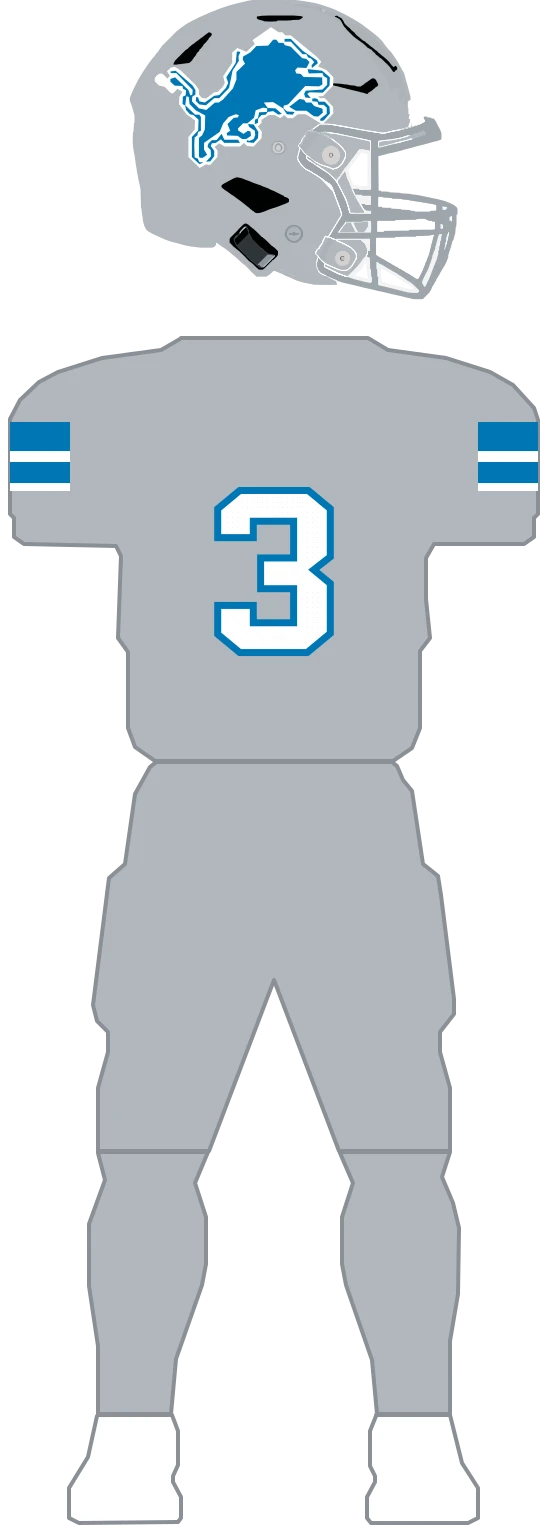
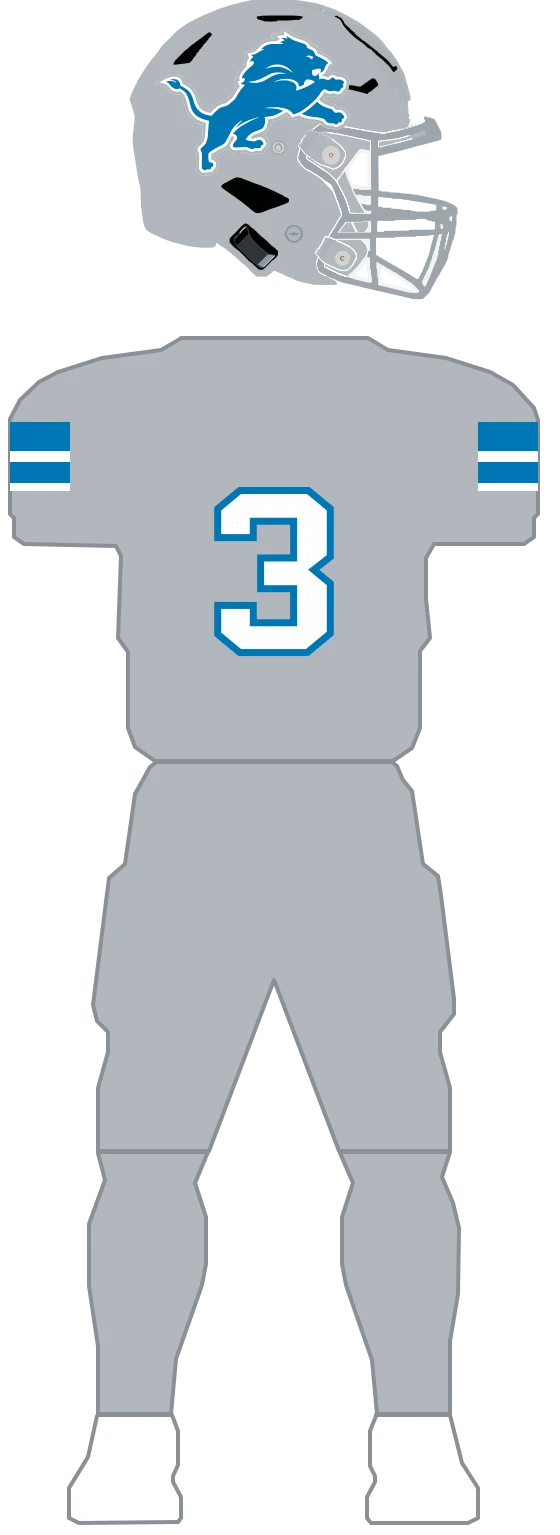
design(uniforms): refine Lions helmet decals (#803)
* design(uniforms): refine Lions helmet decals

* fix(uniforms): preserve all Lions decal paths

* style(uniforms): format Lions parts

Changed region(s): [[0.2732, 0.0, 0.6375, 0.1225]]

diff --git a/web/lib/uniforms/teams/lions-decal.ts b/web/lib/uniforms/teams/lions-decal.ts
@@ -1,0 +1,83 @@
+// Provenance: user-supplied lions_leaping_lion.svg (DEP-475), club trademark/non-free art.
+// Source SHA-256: 43e78fef4fc99e3a3a5d1d278ab5ed742794af621c85ef39081951fb80fe59be
+// Direct source paths in original paint order; canvas and border paths are omitted.
+// Placement reference: https://www.gridiron-uniforms.com/GUD/controller/controller.php?action=teams&team_id=DET
+// Generated by scripts/uniform-draw/lions_decal.py; coordinates include placement.
+export const LIONS_DECAL_PATHS = [
+  {
+    fill: 'blue',
+    d: 'M452.362,139.625 L453.621,140.128 L456.139,142.142 L460.922,145.164 L466.713,148.185 L472.001,150.199 L487.107,155.235 L491.136,157.249 L492.647,159.263 L493.402,160.774 L493.402,163.544 L502.466,167.572 L505.236,169.083 L506.998,170.845 L510.271,177.392 L512.034,179.406 L520.342,183.183 L525.378,185.700 L530.162,188.722 L533.687,191.491 L536.456,193.757 L536.456,194.261 L533.687,196.023 L531.672,198.038 L529.658,203.073 L528.399,206.094 L526.637,208.864 L524.371,211.382 L521.853,213.144 L520.846,213.648 L520.091,213.648 L521.098,209.368 L520.846,206.598 L520.342,205.591 L515.810,205.591 L510.775,206.346 L506.746,207.605 L503.725,209.116 L503.473,209.871 L503.473,212.137 L503.977,215.662 L504.984,217.928 L505.991,219.187 L507.502,219.942 L509.768,219.942 L512.789,218.432 L515.559,215.662 L516.566,214.151 L517.069,214.151 L517.069,219.942 L518.328,220.446 L518.328,223.467 L518.076,226.237 L517.825,226.740 L521.601,225.482 L522.860,225.230 L525.630,225.230 L529.910,226.237 L534.442,227.999 L536.205,227.999 L539.226,226.489 L543.003,223.719 L544.261,223.216 L546.276,223.216 L547.535,223.971 L549.045,225.985 L549.297,226.489 L551.311,226.740 L559.117,226.740 L562.641,227.999 L565.663,229.762 L567.425,231.776 L567.929,233.287 L566.922,234.797 L564.907,236.308 L565.159,237.567 L565.915,239.833 L565.915,242.099 L563.900,243.610 L561.886,244.365 L560.375,247.890 L558.865,249.904 L557.354,251.163 L554.081,251.163 L549.549,249.904 L548.794,249.652 L547.031,249.652 L544.010,250.408 L541.995,250.660 L537.715,250.660 L534.946,249.652 L532.176,247.890 L531.169,246.883 L528.903,246.883 L526.133,247.890 L524.119,249.401 L521.853,252.170 L518.076,257.709 L514.551,262.493 L511.530,266.018 L505.739,271.809 L503.725,273.572 L500.955,276.089 L498.186,278.355 L495.668,280.621 L493.402,282.384 L488.366,286.161 L484.338,288.930 L479.806,291.700 L475.777,293.714 L469.483,295.980 L465.958,296.735 L464.951,295.728 L462.685,292.707 L459.663,289.685 L456.390,287.671 L453.621,286.412 L448.585,284.902 L442.291,283.643 L435.744,282.887 L431.968,282.636 L425.170,282.636 L417.616,283.139 L410.315,284.146 L423.659,284.398 L430.457,285.153 L435.996,286.161 L441.283,287.671 L445.816,289.685 L445.060,290.441 L439.269,293.462 L434.234,296.232 L428.694,298.750 L424.918,300.008 L419.630,301.016 L409.307,302.023 L408.804,302.023 L410.063,307.310 L410.315,310.080 L409.307,315.115 L407.545,320.403 L406.034,323.172 L404.775,324.683 L401.250,326.697 L398.481,327.956 L391.683,330.474 L386.899,332.236 L383.626,333.999 L380.353,336.265 L377.583,338.531 L375.065,341.049 L372.548,344.573 L371.289,347.091 L371.289,347.847 L385.388,350.616 L387.906,350.616 L390.424,349.861 L394.452,348.098 L395.963,347.595 L399.488,347.595 L401.754,348.602 L403.768,350.113 L405.531,352.379 L406.538,354.393 L406.538,356.407 L405.279,357.666 L404.272,358.421 L402.006,359.177 L401.502,359.177 L401.502,361.694 L400.495,363.709 L399.236,364.464 L397.977,364.716 L394.452,364.716 L389.165,363.961 L387.151,365.471 L385.137,366.227 L381.612,366.227 L377.331,363.961 L373.806,362.198 L370.282,361.946 L357.441,362.953 L350.894,363.205 L347.621,362.702 L346.111,361.694 L345.355,360.939 L345.104,360.184 L345.104,357.918 L346.111,355.652 L348.125,352.882 L351.650,348.350 L353.161,345.832 L353.664,344.322 L353.664,342.056 L352.405,339.538 L350.391,337.775 L345.355,335.006 L346.866,333.243 L353.412,326.697 L356.937,323.928 L360.714,321.158 L366.001,317.885 L372.548,314.108 L378.087,311.087 L383.878,308.065 L390.424,305.296 L395.963,303.282 L396.718,303.282 L396.718,302.778 L390.172,304.289 L384.381,306.051 L378.590,308.065 L372.044,310.835 L367.260,313.101 L362.728,315.619 L357.693,318.892 L354.671,321.158 L351.398,323.676 L351.398,322.920 L352.909,320.654 L355.678,317.381 L358.700,314.108 L361.721,311.087 L363.735,309.324 L364.239,308.821 L362.728,309.324 L358.700,311.842 L355.427,314.360 L352.909,316.626 L350.139,319.144 L348.377,321.158 L345.355,324.935 L342.334,329.718 L339.313,335.509 L334.025,346.084 L330.752,351.875 L328.738,354.645 L326.472,356.659 L321.940,359.177 L313.631,363.205 L308.344,366.227 L302.301,370.003 L299.028,372.521 L297.265,374.283 L296.510,376.298 L296.510,383.851 L297.265,391.908 L302.301,392.915 L304.819,393.922 L305.826,395.181 L306.329,396.440 L306.329,399.713 L305.071,401.224 L302.553,401.979 L302.301,402.231 L301.797,404.749 L300.790,406.260 L300.035,407.015 L299.280,407.267 L296.006,407.015 L294.999,406.511 L293.740,406.763 L291.726,408.022 L288.453,408.526 L286.187,407.770 L284.173,406.260 L282.914,403.742 L282.662,400.469 L283.417,382.089 L283.417,375.794 L282.662,372.773 L280.396,367.989 L280.396,365.975 L281.907,363.961 L285.180,360.939 L287.194,359.177 L288.957,357.414 L290.719,354.645 L292.733,350.113 L294.244,344.573 L295.251,337.524 L296.258,319.647 L297.014,313.605 L297.769,310.835 L297.769,309.828 L288.453,307.310 L282.159,305.044 L278.130,303.282 L274.605,301.267 L272.087,299.253 L269.570,296.987 L267.052,294.217 L264.282,290.189 L262.268,286.161 L260.757,281.628 L258.995,273.823 L257.232,267.781 L254.966,261.738 L252.197,255.947 L249.931,252.926 L246.658,249.904 L242.629,247.135 L238.852,244.869 L237.594,245.120 L235.328,246.128 L234.320,246.379 L231.551,246.379 L228.278,245.372 L224.501,243.106 L221.228,240.337 L217.703,235.805 L216.444,234.546 L214.430,233.287 L211.157,232.028 L210.905,231.524 L215.185,230.265 L218.458,229.762 L221.983,229.762 L225.760,230.517 L228.781,231.776 L231.047,233.287 L231.803,233.539 L230.292,231.272 L228.781,230.014 L225.256,228.755 L220.472,227.748 L220.472,227.244 L222.739,226.489 L223.997,226.237 L229.788,226.237 L232.810,226.992 L235.579,228.503 L237.342,230.517 L239.104,234.042 L240.867,239.329 L247.665,243.106 L251.945,245.876 L254.715,247.890 L257.232,250.156 L259.498,252.926 L262.268,257.458 L264.282,261.486 L266.296,267.529 L268.059,273.823 L269.821,278.355 L272.339,283.139 L274.605,286.161 L276.871,288.678 L279.641,291.448 L283.417,293.966 L287.698,295.980 L293.237,297.742 L298.021,298.750 L302.805,299.253 L306.078,295.476 L311.617,289.937 L313.631,288.175 L316.149,285.909 L319.674,283.643 L323.450,282.132 L332.515,279.362 L336.039,277.600 L338.809,275.082 L341.327,273.068 L344.852,270.047 L347.621,267.781 L349.887,265.263 L353.664,258.717 L357.189,252.926 L359.959,248.897 L362.728,245.372 L364.994,242.854 L367.008,240.337 L369.023,238.322 L369.023,237.819 L365.246,237.063 L362.980,236.056 L361.217,234.797 L361.973,234.042 L365.246,232.028 L367.764,229.762 L369.023,227.244 L368.771,224.978 L367.512,224.474 L365.246,224.474 L362.980,224.978 L363.232,223.216 L364.742,219.439 L367.008,215.410 L369.526,212.137 L371.792,209.619 L376.576,204.836 L382.115,200.304 L383.878,198.793 L384.381,198.793 L384.885,197.786 L385.892,196.527 L386.899,194.513 L386.899,191.995 L385.640,190.736 L383.122,190.484 L380.353,191.491 L379.346,192.247 L378.842,191.995 L381.360,186.959 L383.878,183.434 L385.892,181.672 L385.892,181.168 L383.374,179.909 L381.612,178.147 L381.612,177.643 L387.906,176.636 L391.683,175.126 L397.726,171.601 L403.265,168.579 L407.041,167.069 L407.797,166.817 L408.049,166.313 L403.013,166.565 L401.250,166.817 L401.754,165.810 L403.768,164.047 L407.293,161.278 L410.566,159.263 L414.595,157.501 L419.379,156.242 L423.659,155.739 L432.219,155.739 L436.248,155.990 L444.053,155.990 L445.564,155.487 L444.557,154.480 L442.291,153.472 L439.269,152.717 L440.025,151.962 L445.312,149.696 L448.333,148.940 L448.082,148.185 L445.564,146.171 L441.787,143.905 L441.787,143.401 L445.564,143.653 L452.110,144.660 L454.376,145.416 L452.865,142.394 Z',
+  },
+  {
+    fill: 'white',
+    d: 'M443.801,122.252 L446.823,124.014 L451.858,127.287 L456.642,130.309 L462.685,133.834 L468.224,136.855 L474.770,139.625 L484.841,142.898 L491.639,145.164 L495.668,147.178 L498.438,149.192 L500.200,150.955 L502.466,154.228 L503.473,155.739 L509.012,158.508 L512.537,160.774 L514.300,162.285 L516.566,165.306 L518.832,169.838 L518.832,170.342 L520.091,170.845 L528.399,174.874 L534.190,178.147 L537.212,180.161 L540.485,182.679 L543.758,185.449 L546.276,187.715 L549.297,190.484 L551.060,192.247 L552.067,193.002 L552.067,193.757 L548.290,196.275 L545.017,199.045 L541.995,202.570 L540.485,205.591 L538.471,210.627 L536.205,214.655 L537.212,214.151 L539.981,212.893 L543.003,212.137 L546.024,212.137 L549.801,212.893 L552.822,214.151 L554.836,215.662 L560.124,215.914 L564.656,216.921 L568.684,218.683 L572.209,220.950 L575.230,223.719 L577.496,227.244 L578.504,230.265 L578.504,235.553 L577.245,239.329 L576.993,243.358 L575.734,246.631 L573.216,250.156 L569.943,253.429 L568.181,255.947 L565.915,258.465 L563.900,259.975 L560.375,261.738 L558.361,262.241 L553.074,262.241 L548.542,261.234 L546.024,261.234 L542.499,261.738 L538.471,261.738 L534.190,260.983 L530.917,259.975 L529.910,259.975 L527.140,264.004 L525.378,266.522 L525.378,267.025 L529.658,270.047 L534.946,272.564 L541.240,274.579 L546.276,276.089 L550.304,278.104 L553.326,280.873 L553.829,281.628 L559.872,281.880 L563.397,282.636 L566.922,284.146 L570.447,286.664 L573.216,289.434 L575.482,292.707 L577.496,296.735 L578.504,300.764 L578.504,304.037 L577.496,307.562 L575.734,310.835 L573.720,313.605 L571.454,317.885 L569.439,320.403 L567.425,322.165 L564.656,323.424 L561.383,324.683 L559.117,326.194 L556.095,327.452 L554.081,327.956 L549.297,327.956 L545.269,326.697 L543.758,325.942 L537.967,325.438 L533.435,324.431 L530.162,323.172 L526.637,320.906 L525.378,319.899 L523.616,317.885 L521.601,315.871 L519.587,314.863 L516.566,314.108 L503.725,312.597 L496.675,311.339 L490.129,309.828 L482.827,307.562 L478.799,305.799 L477.792,305.296 L475.526,305.548 L471.497,306.555 L464.195,307.562 L458.908,307.562 L456.642,302.778 L454.376,299.757 L453.621,299.001 L451.858,299.253 L447.830,301.519 L441.535,304.792 L437.507,306.806 L432.975,308.821 L428.946,310.331 L424.162,311.590 L421.393,312.094 L420.889,313.605 L419.127,320.654 L417.364,325.438 L415.602,328.711 L413.336,331.481 L410.566,333.999 L407.041,336.265 L405.027,337.272 L404.272,337.272 L404.272,337.775 L405.783,338.279 L409.559,340.545 L412.581,343.315 L414.595,346.084 L416.609,350.113 L417.616,353.889 L417.616,357.162 L416.609,360.436 L414.847,363.457 L411.825,366.730 L409.307,370.255 L406.790,372.773 L404.775,374.032 L401.250,375.291 L398.481,375.794 L391.431,375.794 L388.158,376.801 L385.640,377.305 L381.108,377.305 L377.080,376.046 L372.799,374.032 L371.037,373.025 L360.966,373.780 L356.182,374.032 L347.621,374.032 L343.845,373.025 L340.320,371.262 L337.550,368.744 L335.284,365.219 L335.032,364.212 L330.249,367.234 L325.968,369.500 L321.688,371.514 L316.149,374.535 L311.365,377.305 L307.588,379.823 L307.588,382.844 L311.113,385.110 L313.631,387.376 L315.394,389.642 L316.904,392.915 L317.408,394.929 L317.408,400.469 L316.401,403.994 L314.890,406.763 L312.120,410.036 L308.595,414.065 L306.329,416.079 L303.308,417.590 L299.783,418.345 L296.258,418.345 L291.223,419.352 L286.187,419.352 L282.159,418.093 L279.137,416.331 L276.368,413.813 L274.102,410.792 L272.339,407.015 L271.584,403.994 L271.584,398.203 L272.087,388.887 L272.087,376.298 L270.073,372.017 L269.318,369.248 L269.318,364.968 L270.828,360.939 L272.843,357.918 L276.871,353.889 L278.382,352.630 L280.396,350.113 L282.410,346.084 L283.417,342.056 L283.921,338.279 L285.180,321.661 L285.180,318.137 L278.382,315.619 L272.591,312.849 L268.311,310.331 L265.038,307.814 L262.268,305.296 L260.506,303.282 L257.736,299.757 L255.218,295.980 L252.449,290.693 L250.686,285.657 L248.924,279.111 L247.161,271.809 L245.147,265.766 L243.384,262.493 L241.118,259.724 L238.349,257.458 L237.845,257.206 L232.054,257.458 L228.026,256.702 L224.753,255.443 L220.976,253.177 L217.955,250.408 L215.437,247.890 L213.171,245.120 L210.905,242.603 L208.387,240.840 L205.617,239.581 L201.589,238.322 L195.043,236.812 L189.000,235.805 L189.504,234.797 L192.021,232.280 L194.791,230.014 L198.819,226.740 L203.855,223.467 L209.646,220.446 L215.437,218.180 L222.235,216.417 L225.256,215.914 L231.803,215.914 L236.083,216.921 L239.104,218.180 L242.126,220.194 L244.643,222.460 L246.406,224.474 L248.924,228.755 L250.183,231.776 L255.470,234.797 L259.750,237.819 L263.527,241.092 L265.541,243.106 L268.311,246.631 L271.332,251.163 L274.353,256.954 L276.116,261.738 L279.137,271.809 L280.396,274.830 L281.655,277.348 L283.669,279.866 L285.935,282.132 L289.460,284.398 L294.244,286.412 L297.517,287.419 L298.776,287.168 L302.805,283.391 L304.567,281.628 L306.581,279.866 L309.603,277.096 L312.876,274.830 L316.401,273.068 L321.184,271.306 L328.738,268.788 L331.507,267.025 L335.032,264.004 L337.802,261.738 L340.320,259.472 L343.593,254.184 L345.104,251.667 L346.362,249.401 L349.132,245.372 L351.902,242.099 L352.405,241.092 L350.391,236.056 L348.880,230.769 L348.125,225.733 L348.125,222.712 L350.391,223.216 L352.405,223.971 L352.909,220.194 L354.419,215.159 L356.685,210.878 L359.203,207.353 L361.469,204.584 L366.001,199.548 L366.505,197.030 L367.512,191.491 L369.274,186.204 L371.037,182.679 L371.037,181.420 L368.519,176.636 L367.260,172.860 L367.260,171.601 L371.540,170.845 L378.842,169.335 L384.129,167.572 L386.647,166.061 L389.165,163.795 L392.438,160.019 L397.726,154.731 L402.006,151.458 L406.538,148.940 L410.315,147.430 L414.091,146.171 L420.386,144.912 L428.191,144.408 L424.918,142.394 L420.889,140.128 L421.645,139.373 L425.673,137.359 L430.205,135.596 L434.737,134.337 L439.773,133.330 L441.787,133.078 L442.039,132.827 L443.046,125.021 L443.550,122.504 Z M452.362,139.625 L452.865,142.394 L454.376,145.416 L452.110,144.660 L445.564,143.653 L441.787,143.401 L441.787,143.905 L445.564,146.171 L448.333,148.437 L448.333,148.940 L444.557,149.948 L439.521,152.214 L439.269,152.717 L443.046,153.724 L445.312,154.983 L445.312,155.739 L444.053,155.990 L436.248,155.990 L432.219,155.739 L423.659,155.739 L419.379,156.242 L414.595,157.501 L411.573,158.760 L408.049,160.774 L405.027,163.040 L402.509,165.306 L401.250,166.313 L401.250,166.817 L403.013,166.565 L408.049,166.313 L407.797,166.817 L403.768,168.328 L398.481,171.097 L392.438,174.622 L389.417,176.133 L385.388,177.140 L381.612,177.643 L382.115,178.650 L384.129,180.413 L385.892,181.168 L385.640,181.924 L383.626,183.686 L381.863,186.204 L378.842,191.995 L379.346,192.247 L381.360,190.988 L383.122,190.484 L385.640,190.736 L386.899,191.995 L386.899,194.513 L385.388,197.282 L384.381,198.289 L384.381,198.793 L383.374,199.296 L377.835,203.828 L374.562,206.850 L370.030,211.382 L367.512,214.655 L365.246,218.432 L363.483,222.460 L362.980,223.971 L363.232,224.978 L365.246,224.474 L367.512,224.474 L368.771,224.978 L369.023,227.244 L367.764,229.762 L366.001,231.524 L362.476,233.790 L361.217,234.546 L362.476,235.805 L364.491,236.812 L367.512,237.567 L369.023,237.819 L368.519,238.826 L366.253,241.092 L364.239,243.610 L361.469,246.883 L358.700,250.660 L355.678,255.443 L352.405,260.983 L349.636,265.515 L347.370,268.032 L343.845,271.054 L341.075,273.320 L337.802,276.089 L335.284,278.104 L331.759,279.614 L322.695,282.384 L318.667,284.146 L315.645,286.412 L309.603,291.951 L305.071,296.483 L302.805,299.253 L298.021,298.750 L292.230,297.491 L286.439,295.476 L282.159,293.210 L279.137,290.944 L275.109,286.916 L272.339,283.139 L269.318,277.348 L267.052,270.550 L265.289,264.256 L263.275,259.220 L260.506,254.436 L257.484,250.408 L255.470,248.394 L251.945,245.876 L247.161,242.854 L240.867,239.329 L239.104,234.042 L237.342,230.517 L235.579,228.503 L232.054,226.740 L229.788,226.237 L223.997,226.237 L220.976,226.992 L220.472,227.244 L220.472,227.748 L226.263,229.006 L229.033,230.265 L230.795,231.776 L231.803,233.539 L230.040,232.531 L226.515,230.769 L223.746,230.014 L221.983,229.762 L218.458,229.762 L214.178,230.517 L210.905,231.524 L211.157,232.028 L214.430,233.287 L216.948,234.797 L220.472,239.329 L222.235,241.344 L225.256,243.610 L228.278,245.372 L231.551,246.379 L234.320,246.379 L237.090,245.372 L238.097,244.869 L239.356,245.120 L244.643,248.394 L247.413,250.660 L250.434,253.429 L252.700,256.954 L255.218,262.241 L257.736,269.291 L259.750,276.845 L261.009,282.384 L262.520,286.664 L264.534,290.693 L267.555,294.721 L269.821,297.239 L272.843,300.008 L276.368,302.274 L280.396,304.289 L284.173,305.799 L290.971,308.065 L297.769,309.828 L297.517,311.339 L296.762,315.115 L296.258,319.647 L295.251,337.524 L294.244,344.573 L292.733,350.113 L290.719,354.645 L288.957,357.414 L285.683,360.687 L283.669,362.450 L281.151,364.716 L280.396,365.975 L280.396,367.989 L282.914,373.528 L283.417,375.794 L283.417,382.089 L282.662,400.469 L282.914,403.742 L284.173,406.260 L286.439,408.022 L289.208,408.526 L291.726,408.022 L293.992,406.511 L295.503,406.763 L297.517,407.267 L299.280,407.267 L300.539,406.511 L301.546,405.252 L302.049,404.245 L302.301,402.231 L304.567,401.476 L306.078,400.217 L306.329,399.713 L306.329,396.440 L305.322,394.426 L303.812,393.419 L300.035,392.412 L297.265,391.908 L296.510,383.851 L296.510,376.298 L297.265,374.283 L299.531,372.017 L303.056,369.500 L310.106,365.219 L316.149,361.946 L323.450,358.421 L326.724,356.407 L329.241,354.141 L332.011,349.609 L335.284,343.566 L341.830,330.474 L344.852,325.690 L348.377,321.158 L351.650,317.633 L353.664,315.871 L355.930,313.856 L360.210,310.835 L363.735,308.821 L363.987,309.072 L362.225,310.835 L360.210,312.597 L356.685,316.122 L354.923,318.137 L352.909,320.654 L351.146,323.172 L351.398,323.676 L353.664,321.913 L356.937,319.395 L361.973,316.122 L366.001,313.856 L370.282,311.590 L377.331,308.569 L383.626,306.303 L389.165,304.540 L394.452,303.282 L396.718,302.778 L396.718,303.282 L395.208,303.533 L387.906,306.303 L382.871,308.569 L375.569,312.346 L369.526,315.871 L364.239,318.892 L358.951,322.417 L355.678,324.935 L352.405,327.704 L345.355,334.754 L346.111,335.509 L350.391,337.775 L352.405,339.538 L353.664,342.056 L353.664,344.322 L352.657,346.839 L349.636,350.868 L346.362,355.148 L345.355,357.162 L345.104,357.918 L345.104,360.184 L345.859,361.443 L347.118,362.450 L348.377,362.953 L351.398,363.205 L357.441,362.953 L370.282,361.946 L373.806,362.198 L377.835,364.212 L381.612,366.227 L385.137,366.227 L387.654,365.219 L389.165,363.961 L394.452,364.716 L397.977,364.716 L399.740,364.212 L400.999,362.953 L401.502,361.694 L401.502,359.177 L403.517,358.673 L405.027,357.918 L406.538,356.407 L406.538,354.393 L405.027,351.623 L403.013,349.357 L400.243,347.847 L399.488,347.595 L395.963,347.595 L392.690,348.854 L389.920,350.113 L387.906,350.616 L385.388,350.616 L371.289,347.847 L371.540,346.588 L373.051,343.818 L375.569,340.545 L378.339,337.775 L382.367,334.754 L386.395,332.488 L390.928,330.726 L397.222,328.460 L401.250,326.697 L404.020,325.186 L405.531,323.928 L407.041,321.410 L408.300,318.388 L409.559,314.108 L410.315,310.080 L410.063,307.310 L408.804,302.023 L417.616,301.267 L423.911,300.260 L427.939,299.001 L430.961,297.742 L434.989,295.728 L442.291,291.951 L445.816,289.937 L444.808,289.182 L439.773,287.168 L433.730,285.657 L426.428,284.650 L423.659,284.398 L410.315,284.146 L417.616,283.139 L425.170,282.636 L431.968,282.636 L438.766,283.139 L446.319,284.398 L451.355,285.657 L455.383,287.168 L458.908,289.182 L461.426,291.448 L463.188,293.210 L465.454,296.483 L466.210,296.735 L470.994,295.476 L476.281,293.462 L480.309,291.448 L484.338,288.930 L489.373,285.405 L493.654,282.132 L496.423,279.866 L499.948,276.845 L503.725,273.572 L508.005,269.543 L512.537,265.011 L515.307,261.486 L518.832,256.702 L522.105,251.918 L524.119,249.401 L526.133,247.890 L528.903,246.883 L531.169,246.883 L533.183,248.645 L536.708,250.408 L537.715,250.660 L541.995,250.660 L546.276,249.904 L547.031,249.652 L548.794,249.652 L552.822,250.911 L554.081,251.163 L557.354,251.163 L559.368,249.401 L560.627,247.386 L561.886,244.365 L564.404,243.358 L565.915,242.099 L565.915,239.833 L564.907,237.063 L565.159,236.056 L567.425,234.294 L567.929,232.783 L566.418,230.517 L564.152,228.755 L560.124,226.992 L558.109,226.740 L551.311,226.740 L549.297,226.489 L547.786,224.223 L547.031,223.467 L546.276,223.216 L544.261,223.216 L542.247,224.223 L539.226,226.489 L536.205,227.999 L534.442,227.999 L529.155,225.985 L525.630,225.230 L522.860,225.230 L519.839,225.985 L517.825,226.740 L518.076,226.237 L518.328,223.467 L518.328,220.446 L517.069,219.942 L517.069,214.151 L516.062,214.655 L515.055,216.166 L512.789,218.432 L509.768,219.942 L507.502,219.942 L505.487,218.683 L504.480,217.173 L503.725,214.403 L503.473,212.137 L503.473,209.871 L503.977,208.864 L508.005,207.102 L512.034,206.094 L515.810,205.591 L520.342,205.591 L520.846,206.598 L521.098,209.368 L520.342,212.641 L520.091,213.648 L521.350,213.396 L524.119,211.634 L526.133,209.619 L527.896,206.850 L529.406,203.828 L531.421,198.541 L533.183,196.527 L535.449,194.764 L536.456,194.261 L535.953,193.254 L533.435,191.239 L529.406,188.218 L524.371,185.197 L518.328,182.175 L512.034,179.406 L510.271,177.392 L506.998,170.845 L504.984,168.831 L498.689,165.810 L493.402,163.544 L493.402,160.774 L491.891,158.005 L489.877,156.494 L485.093,154.480 L473.260,150.703 L467.972,148.689 L462.181,145.919 L457.649,143.150 L453.872,140.380 L452.865,139.625 Z',
+  },
+  {
+    fill: 'silver',
+    d: 'M443.801,122.252 L446.823,124.014 L451.858,127.287 L456.642,130.309 L462.685,133.834 L468.224,136.855 L474.770,139.625 L484.841,142.898 L491.639,145.164 L495.668,147.178 L498.438,149.192 L500.200,150.955 L502.466,154.228 L503.473,155.739 L509.012,158.508 L512.537,160.774 L514.300,162.285 L516.566,165.306 L518.832,169.838 L518.832,170.342 L520.091,170.845 L528.399,174.874 L534.190,178.147 L537.212,180.161 L540.485,182.679 L543.758,185.449 L546.276,187.715 L549.297,190.484 L551.060,192.247 L552.067,193.002 L552.067,193.757 L548.290,196.275 L545.017,199.045 L541.995,202.570 L540.485,205.591 L538.471,210.627 L536.205,214.655 L537.212,214.151 L539.981,212.893 L543.003,212.137 L546.024,212.137 L549.801,212.893 L552.822,214.151 L554.836,215.662 L560.124,215.914 L564.656,216.921 L568.684,218.683 L572.209,220.950 L575.230,223.719 L577.496,227.244 L578.504,230.265 L578.504,235.553 L577.245,239.329 L576.993,243.358 L575.734,246.631 L573.216,250.156 L569.943,253.429 L568.181,255.947 L565.915,258.465 L563.900,259.975 L560.375,261.738 L558.361,262.241 L553.074,262.241 L548.542,261.234 L546.024,261.234 L542.499,261.738 L538.471,261.738 L534.190,260.983 L530.917,259.975 L529.910,259.975 L527.140,264.004 L525.378,266.522 L525.378,267.025 L529.658,270.047 L534.946,272.564 L541.240,274.579 L546.276,276.089 L550.304,278.104 L553.326,280.873 L553.829,281.628 L559.872,281.880 L563.397,282.636 L566.922,284.146 L570.447,286.664 L573.216,289.434 L575.482,292.707 L577.496,296.735 L578.504,300.764 L578.504,304.037 L577.496,307.562 L575.734,310.835 L573.720,313.605 L571.454,317.885 L569.439,320.403 L567.425,322.165 L564.656,323.424 L561.383,324.683 L559.117,326.194 L556.095,327.452 L554.081,327.956 L549.297,327.956 L545.269,326.697 L543.758,325.942 L537.967,325.438 L533.435,324.431 L530.162,323.172 L526.637,320.906 L525.378,319.899 L523.616,317.885 L521.601,315.871 L519.587,314.863 L516.566,314.108 L503.725,312.597 L496.675,311.339 L490.129,309.828 L482.827,307.562 L478.799,305.799 L477.792,305.296 L475.526,305.548 L471.497,306.555 L464.195,307.562 L458.908,307.562 L456.642,302.778 L454.376,299.757 L453.621,299.001 L451.858,299.253 L447.830,301.519 L441.535,304.792 L437.507,306.806 L432.975,308.821 L428.946,310.331 L424.162,311.590 L421.393,312.094 L420.889,313.605 L419.127,320.654 L417.364,325.438 L415.602,328.711 L413.336,331.481 L410.566,333.999 L407.041,336.265 L405.027,337.272 L404.272,337.272 L404.272,337.775 L405.783,338.279 L409.559,340.545 L412.581,343.315 L414.595,346.084 L416.609,350.113 L417.616,353.889 L417.616,357.162 L416.609,360.436 L414.847,363.457 L411.825,366.730 L409.307,370.255 L406.790,372.773 L404.775,374.032 L401.250,375.291 L398.481,375.794 L391.431,375.794 L388.158,376.801 L385.640,377.305 L381.108,377.305 L377.080,376.046 L372.799,374.032 L371.037,373.025 L360.966,373.780 L356.182,374.032 L347.621,374.032 L343.845,373.025 L340.320,371.262 L337.550,368.744 L335.284,365.219 L335.032,364.212 L330.249,367.234 L325.968,369.500 L321.688,371.514 L316.149,374.535 L311.365,377.305 L307.588,379.823 L307.588,382.844 L311.113,385.110 L313.631,387.376 L315.394,389.642 L316.904,392.915 L317.408,394.929 L317.408,400.469 L316.401,403.994 L314.890,406.763 L312.120,410.036 L308.595,414.065 L306.329,416.079 L303.308,417.590 L299.783,418.345 L296.258,418.345 L291.223,419.352 L286.187,419.352 L282.159,418.093 L279.137,416.331 L276.368,413.813 L274.102,410.792 L272.339,407.015 L271.584,403.994 L271.584,398.203 L272.087,388.887 L272.087,376.298 L270.073,372.017 L269.318,369.248 L269.318,364.968 L270.828,360.939 L272.843,357.918 L276.871,353.889 L278.382,352.630 L280.396,350.113 L282.410,346.084 L283.417,342.056 L283.921,338.279 L285.180,321.661 L285.180,318.137 L278.382,315.619 L272.591,312.849 L268.311,310.331 L265.038,307.814 L262.268,305.296 L260.506,303.282 L257.736,299.757 L255.218,295.980 L252.449,290.693 L250.686,285.657 L248.924,279.111 L247.161,271.809 L245.147,265.766 L243.384,262.493 L241.118,259.724 L238.349,257.458 L237.845,257.206 L232.054,257.458 L228.026,256.702 L224.753,255.443 L220.976,253.177 L217.955,250.408 L215.437,247.890 L213.171,245.120 L210.905,242.603 L208.387,240.840 L205.617,239.581 L201.589,238.322 L195.043,236.812 L189.000,235.805 L189.504,234.797 L192.021,232.280 L194.791,230.014 L198.819,226.740 L203.855,223.467 L209.646,220.446 L215.437,218.180 L222.235,216.417 L225.256,215.914 L231.803,215.914 L236.083,216.921 L239.104,218.180 L242.126,220.194 L244.643,222.460 L246.406,224.474 L248.924,228.755 L250.183,231.776 L255.470,234.797 L259.750,237.819 L263.527,241.092 L265.541,243.106 L268.311,246.631 L271.332,251.163 L274.353,256.954 L276.116,261.738 L279.137,271.809 L280.396,274.830 L281.655,277.348 L283.669,279.866 L285.935,282.132 L289.460,284.398 L294.244,286.412 L297.517,287.419 L298.776,287.168 L302.805,283.391 L304.567,281.628 L306.581,279.866 L309.603,277.096 L312.876,274.830 L316.401,273.068 L321.184,271.306 L328.738,268.788 L331.507,267.025 L335.032,264.004 L337.802,261.738 L340.320,259.472 L343.593,254.184 L345.104,251.667 L346.362,249.401 L349.132,245.372 L351.902,242.099 L352.405,241.092 L350.391,236.056 L348.880,230.769 L348.125,225.733 L348.125,222.712 L350.391,223.216 L352.405,223.971 L352.909,220.194 L354.419,215.159 L356.685,210.878 L359.203,207.353 L361.469,204.584 L366.001,199.548 L366.505,197.030 L367.512,191.491 L369.274,186.204 L371.037,182.679 L371.037,181.420 L368.519,176.636 L367.260,172.860 L367.260,171.601 L371.540,170.845 L378.842,169.335 L384.129,167.572 L386.647,166.061 L389.165,163.795 L392.438,160.019 L397.726,154.731 L402.006,151.458 L406.538,148.940 L410.315,147.430 L414.091,146.171 L420.386,144.912 L428.191,144.408 L424.918,142.394 L420.889,140.128 L421.645,139.373 L425.673,137.359 L430.205,135.596 L434.737,134.337 L439.773,133.330 L441.787,133.078 L442.039,132.827 L443.046,125.021 L443.550,122.504 Z M448.082,130.812 L447.326,137.107 L447.326,138.617 L441.787,138.617 L436.248,139.373 L432.975,140.128 L432.975,140.883 L435.241,142.394 L438.262,145.164 L439.269,146.171 L432.471,150.199 L425.421,150.451 L419.882,150.955 L413.839,152.214 L409.559,153.724 L405.783,155.739 L402.761,158.005 L399.236,161.026 L396.718,163.544 L394.956,165.558 L391.935,168.831 L388.661,171.097 L385.640,172.608 L382.115,173.615 L376.828,174.622 L374.310,175.126 L374.562,176.384 L376.576,180.161 L377.835,181.924 L377.331,183.183 L375.065,187.211 L373.555,190.988 L372.548,195.520 L372.296,197.282 L372.044,201.562 L368.016,205.591 L368.016,206.094 L367.512,206.094 L365.246,208.864 L361.973,213.144 L359.203,218.432 L358.196,221.957 L358.196,226.237 L359.203,230.014 L355.427,230.014 L355.427,232.028 L356.685,236.056 L358.196,239.078 L359.455,240.588 L358.951,241.595 L356.937,244.113 L354.671,247.135 L351.902,251.163 L349.636,254.940 L346.362,260.479 L344.348,263.249 L341.327,266.018 L338.809,268.032 L336.291,270.298 L332.766,273.068 L329.745,274.579 L321.688,277.096 L317.911,278.355 L315.142,279.866 L312.624,281.880 L310.106,284.146 L308.092,285.909 L301.294,292.707 L301.294,293.210 L300.790,293.210 L300.790,293.714 L298.272,293.462 L293.992,292.455 L289.964,290.944 L285.935,288.930 L283.166,287.168 L280.648,284.902 L278.885,282.887 L276.619,279.362 L274.605,275.334 L272.591,270.550 L270.577,263.249 L268.814,258.465 L266.800,254.436 L264.786,251.163 L262.268,247.890 L258.491,244.113 L254.211,240.840 L248.672,237.567 L245.147,235.805 L244.140,232.028 L242.881,229.006 L241.118,226.489 L239.608,224.726 L236.838,222.964 L234.320,221.957 L231.551,221.453 L225.005,221.453 L220.472,222.208 L216.192,223.467 L212.416,224.978 L206.373,227.999 L201.085,231.272 L198.568,232.783 L199.323,233.287 L206.625,234.797 L210.401,236.056 L213.423,237.819 L216.444,241.092 L218.710,243.861 L221.480,246.883 L223.997,248.897 L228.026,250.911 L229.788,251.415 L233.817,251.667 L237.090,251.163 L238.601,250.911 L241.622,252.674 L244.392,254.940 L246.658,257.458 L248.924,260.983 L250.686,264.759 L252.197,269.291 L254.463,278.607 L255.973,284.146 L257.988,289.434 L260.254,293.714 L263.275,297.994 L266.296,301.519 L269.821,304.540 L273.094,306.555 L278.382,309.324 L282.914,311.087 L289.964,313.353 L291.474,313.605 L290.719,321.410 L289.964,335.509 L289.208,341.804 L287.698,348.098 L286.187,351.875 L284.173,354.645 L282.159,356.659 L279.389,358.925 L276.619,361.946 L275.109,364.464 L274.605,365.975 L274.605,367.737 L275.864,371.514 L277.878,375.542 L277.878,381.837 L277.375,395.685 L277.375,403.994 L278.382,407.267 L279.893,409.533 L281.151,410.792 L282.914,412.302 L285.180,413.309 L286.187,413.561 L291.223,413.561 L294.748,412.554 L300.539,412.554 L303.308,411.547 L305.071,410.036 L307.085,406.763 L308.344,405.504 L309.854,404.245 L311.365,401.224 L311.617,399.965 L311.617,395.181 L310.610,392.412 L309.099,390.397 L306.581,388.887 L302.553,387.376 L302.049,387.376 L301.797,379.319 L302.049,377.305 L304.315,375.291 L308.595,372.269 L314.386,368.996 L325.465,363.457 L329.997,360.687 L333.270,357.414 L334.781,355.652 L337.298,351.372 L340.823,344.573 L342.838,340.545 L342.838,340.041 L347.118,342.307 L347.621,342.811 L347.621,344.322 L345.859,346.839 L342.334,351.372 L340.320,355.148 L339.564,357.918 L339.564,361.443 L341.075,364.464 L343.341,366.730 L345.859,367.989 L347.621,368.493 L353.161,368.493 L368.519,367.485 L372.044,367.485 L376.072,369.500 L380.353,371.262 L382.367,371.766 L384.381,371.766 L388.410,370.759 L390.172,369.751 L394.452,370.003 L398.481,370.003 L402.006,369.248 L404.272,367.485 L404.272,366.982 L404.775,366.982 L406.286,364.464 L407.041,362.953 L409.056,361.443 L411.070,359.177 L412.077,356.407 L412.077,354.393 L411.070,351.120 L409.307,348.350 L407.041,345.832 L403.768,343.566 L401.250,342.559 L399.740,342.307 L395.963,342.307 L393.445,342.811 L389.669,344.322 L386.899,345.329 L385.137,345.329 L380.856,344.322 L380.101,343.818 L382.871,341.300 L386.647,338.531 L390.676,336.517 L399.992,333.243 L404.775,330.977 L408.300,328.460 L410.566,326.194 L412.581,322.165 L414.091,317.633 L415.098,313.605 L415.602,310.080 L415.602,307.310 L415.350,306.806 L422.652,305.799 L428.191,304.540 L432.219,303.030 L437.507,300.512 L443.046,297.491 L447.830,294.973 L452.865,292.203 L453.872,292.455 L456.390,294.217 L458.908,296.735 L461.426,300.260 L462.937,302.526 L465.958,302.274 L471.245,301.016 L477.036,299.001 L478.295,299.253 L482.324,301.267 L487.611,303.282 L494.409,305.296 L499.445,306.303 L504.732,307.058 L513.293,307.814 L519.839,309.072 L524.371,310.583 L525.630,311.339 L527.644,314.108 L530.162,316.626 L532.680,318.137 L535.701,319.144 L538.219,319.647 L544.765,319.899 L549.045,321.913 L552.318,322.417 L555.088,321.913 L558.109,320.151 L559.368,318.640 L559.872,318.388 L563.145,317.885 L565.411,316.626 L567.173,314.612 L568.432,311.590 L569.188,309.324 L571.454,307.310 L572.964,304.289 L573.216,300.764 L572.461,297.742 L570.950,295.225 L568.684,292.707 L566.922,290.944 L564.404,289.182 L561.634,287.923 L558.865,287.419 L555.843,287.419 L550.808,288.175 L550.052,285.909 L547.786,283.391 L545.269,281.628 L539.981,280.118 L535.197,278.607 L531.169,277.096 L526.889,274.830 L522.860,272.061 L518.580,268.536 L517.825,267.781 L518.076,266.773 L521.350,262.493 L524.119,258.717 L527.644,253.933 L528.903,252.422 L531.672,253.933 L534.442,255.192 L537.212,255.947 L541.492,255.947 L546.779,255.192 L549.045,255.443 L552.570,256.450 L553.829,256.702 L557.606,256.702 L560.375,255.695 L562.390,254.184 L564.404,251.667 L566.166,248.645 L569.188,246.379 L570.698,244.365 L571.202,242.854 L571.202,237.819 L572.461,235.805 L572.964,234.294 L572.964,231.021 L571.957,228.755 L570.195,226.740 L567.929,224.726 L564.907,222.964 L561.634,221.957 L560.124,221.705 L552.822,221.453 L550.052,219.187 L548.038,218.180 L547.283,217.928 L543.506,217.928 L540.737,218.935 L537.967,220.698 L535.449,222.460 L534.190,222.208 L530.917,220.950 L527.392,220.194 L523.112,219.691 L523.616,218.432 L527.140,216.166 L529.658,213.900 L532.428,209.871 L534.694,205.087 L536.205,201.059 L537.967,198.793 L539.981,197.030 L543.758,193.757 L542.247,191.995 L539.478,189.477 L537.463,187.715 L533.687,184.693 L529.910,182.175 L524.371,179.154 L516.314,175.377 L514.551,173.867 L512.537,169.335 L510.523,166.565 L508.509,164.803 L504.480,162.537 L498.941,160.019 L497.682,156.997 L495.668,154.228 L493.906,152.717 L491.136,151.206 L487.611,149.696 L478.547,146.674 L470.742,143.905 L465.706,141.639 L461.426,139.373 L457.146,136.603 L448.837,131.064 Z',
+  },
+  {
+    fill: 'blue',
+    d: 'M513.293,271.809 L514.551,272.061 L516.314,273.823 L519.839,276.593 L523.867,279.362 L527.896,281.377 L534.190,283.894 L540.233,285.657 L542.751,286.412 L544.261,287.419 L546.024,289.937 L547.535,291.951 L549.549,293.210 L552.067,293.462 L556.347,292.707 L558.613,292.707 L560.879,293.462 L563.145,294.973 L565.663,297.491 L567.677,301.016 L567.929,302.778 L566.922,304.289 L565.411,305.296 L563.397,306.051 L563.397,309.072 L562.641,311.590 L561.383,312.849 L558.361,312.849 L557.102,312.346 L556.347,312.346 L555.592,314.612 L554.333,316.122 L552.822,316.878 L550.808,316.878 L548.290,315.619 L546.528,314.360 L544.261,314.612 L540.233,314.612 L536.456,313.856 L533.435,312.346 L531.421,310.331 L529.910,307.814 L528.651,306.555 L524.874,305.044 L519.335,303.533 L513.041,302.526 L503.977,301.519 L496.675,300.260 L491.639,299.001 L485.849,296.987 L483.331,295.980 L483.834,294.973 L488.618,292.203 L494.913,287.923 L498.941,284.902 L501.711,282.636 L505.487,279.362 L509.516,275.586 Z',
+  },
+  {
+    fill: 'white',
+    d: 'M446.319,225.733 L456.390,225.733 L461.174,226.489 L466.461,227.999 L470.742,230.014 L473.511,232.028 L475.274,234.042 L476.784,237.063 L477.036,238.071 L477.036,241.344 L482.827,239.581 L486.856,237.567 L487.611,233.790 L488.618,231.524 L490.129,229.258 L492.143,227.496 L494.157,226.740 L496.927,226.740 L501.962,227.999 L506.998,230.014 L509.012,231.021 L509.012,232.028 L504.984,234.797 L500.452,237.567 L493.654,241.092 L486.100,244.365 L478.043,247.386 L472.252,249.149 L471.245,249.149 L471.497,247.890 L472.252,245.876 L472.504,244.869 L472.504,242.099 L471.749,239.581 L470.490,237.063 L468.728,234.797 L465.454,232.531 L461.929,231.021 L457.649,229.762 L453.621,229.006 L451.355,228.755 L442.291,228.755 L436.500,229.510 L428.694,231.524 L428.191,231.272 L431.716,229.510 L436.751,227.748 L443.046,226.237 Z',
+  },
+  {
+    fill: 'white',
+    d: 'M432.975,212.893 L437.759,212.893 L443.046,213.396 L449.089,214.655 L450.851,215.410 L450.851,215.662 L446.067,215.410 L441.283,215.410 L435.996,216.166 L430.205,217.676 L425.170,219.691 L421.141,221.705 L416.106,224.726 L412.832,226.740 L408.300,229.258 L403.517,231.272 L397.726,233.035 L393.194,233.790 L386.647,233.790 L380.353,232.783 L377.331,232.028 L377.080,231.272 L382.619,230.769 L388.661,229.762 L393.949,228.251 L398.733,226.489 L405.279,223.467 L414.091,218.935 L418.875,216.417 L423.155,214.655 L428.443,213.396 Z',
+  },
+  {
+    fill: 'white',
+    d: 'M430.457,197.030 L437.003,197.030 L441.787,197.786 L446.823,199.296 L450.096,200.807 L452.614,202.066 L456.390,204.584 L459.663,207.353 L463.188,210.878 L464.447,212.641 L464.447,213.144 L463.188,212.641 L459.412,209.871 L453.369,206.598 L447.578,204.080 L442.542,202.570 L438.514,201.814 L435.744,201.562 L430.709,201.562 L423.407,202.318 L417.364,203.577 L412.832,205.087 L411.573,205.087 L412.832,203.828 L416.357,201.562 L420.386,199.548 L424.666,198.038 Z',
+  },
+  {
+    fill: 'white',
+    d: 'M496.675,179.154 L499.445,179.154 L504.480,181.168 L505.991,181.672 L505.487,182.931 L503.977,185.197 L504.228,187.211 L502.970,186.707 L498.689,183.434 L496.172,182.175 L491.639,180.917 L491.388,180.161 Z',
+  },
+  {
+    fill: 'silver',
+    d: 'M477.036,298.750 L478.295,299.001 L482.324,301.016 L487.611,303.030 L494.409,305.044 L499.445,306.051 L504.732,306.806 L513.293,307.562 L519.839,308.821 L524.371,310.331 L525.882,311.339 L527.896,314.108 L530.162,316.374 L532.680,317.885 L535.701,318.892 L538.219,319.395 L544.765,319.647 L549.045,321.661 L552.318,322.165 L555.088,321.661 L556.599,321.158 L555.843,321.913 L553.829,322.669 L550.556,322.669 L548.038,321.913 L545.017,320.403 L539.478,320.151 L535.953,319.647 L532.176,318.388 L529.910,316.878 L528.148,315.367 L525.378,311.842 L524.623,311.087 L521.098,309.828 L515.307,308.569 L501.459,307.058 L495.164,305.799 L490.381,304.540 L484.338,302.526 L478.295,299.757 L476.784,299.505 L469.986,301.771 L465.454,302.778 L462.685,302.778 L461.929,301.771 L462.181,301.267 L462.937,302.274 L465.958,302.023 L471.245,300.764 Z',
+  },
+  {
+    fill: 'silver',
+    d: 'M528.903,252.170 L531.672,253.681 L534.442,254.940 L537.212,255.695 L541.492,255.695 L546.779,254.940 L549.045,255.192 L552.570,256.199 L553.829,256.450 L557.606,256.450 L560.375,255.443 L560.879,255.695 L558.865,256.702 L556.850,257.206 L554.584,257.206 L549.297,255.947 L548.038,255.443 L540.988,256.450 L537.463,256.450 L533.183,255.192 L529.658,253.429 L527.896,254.184 L527.392,253.933 Z',
+  },
+  {
+    fill: 'silver',
+    d: 'M411.825,283.643 L413.588,283.643 L413.588,283.894 L423.155,284.146 L423.155,284.398 L410.063,284.398 L410.315,283.894 Z',
+  },
+  {
+    fill: 'silver',
+    d: 'M264.282,299.253 L265.541,300.260 L266.548,301.519 L269.318,303.785 L271.332,305.296 L270.828,305.548 L268.059,303.533 L265.541,301.267 L264.282,299.757 Z',
+  },
+  {
+    fill: 'silver',
+    d: 'M387.654,337.775 L388.158,338.027 L384.129,340.797 L381.612,343.063 L380.605,343.315 L381.863,342.056 L384.129,340.041 Z',
+  },
+  {
+    fill: 'silver',
+    d: 'M242.126,253.177 L243.133,253.681 L245.147,255.443 L246.909,257.458 L246.658,257.961 L245.147,256.450 L245.147,255.947 L244.140,255.443 L242.126,253.429 Z',
+  },
+  {
+    fill: 'silver',
+    d: 'M431.716,229.510 L432.219,229.762 L431.968,230.014 L432.471,230.517 L428.191,231.524 L428.946,230.769 Z',
+  },
+  {
+    fill: 'silver',
+    d: 'M540.485,196.275 L540.988,196.527 L536.708,200.807 L536.708,200.052 L537.967,198.541 L539.981,196.779 Z',
+  },
+  {
+    fill: 'silver',
+    d: 'M448.082,214.655 L449.844,214.907 L450.851,215.410 L450.851,215.662 L446.067,215.410 L446.067,215.159 L448.082,214.907 Z',
+  },
+  {
+    fill: 'silver',
+    d: 'M395.963,302.778 L396.718,302.778 L396.718,303.282 L394.704,303.785 L391.179,304.037 L391.935,303.533 Z',
+  },
+  {
+    fill: 'silver',
+    d: 'M342.838,340.041 L344.348,340.545 L346.614,341.804 L346.111,342.056 L343.593,341.049 L342.838,340.545 Z',
+  },
+] as const;

diff --git a/web/lib/uniforms/teams/lions.parts.ts b/web/lib/uniforms/teams/lions.parts.ts
@@ -8,13 +8,8 @@
 // white body over silver pants (accent), and gridiron-gray a silver body over silver pants
 // (primary) — so the two shared pant parts are blue (home) and silver (away + gridiron).
 
-import {
-  LIONS_DECAL_BODY_PATH,
-  LIONS_DECAL_KEYLINE_PATH,
-  LIONS_SLEEVE_X_LEFT,
-  LIONS_SLEEVE_X_RIGHT,
-  LIONS_STRIPE_BOUNDS,
-} from './lions';
+import { LIONS_SLEEVE_X_LEFT, LIONS_SLEEVE_X_RIGHT, LIONS_STRIPE_BOUNDS } from './lions';
+import { LIONS_DECAL_PATHS as GENERATED_LIONS_DECAL_PATHS } from './lions-decal';
 import { compileParts, type PartLayer, type TeamPartsDefinition, type UniformPart } from './parts';
 import type { UniformSurface } from './types';
 
@@ -55,22 +50,14 @@ const HELMET_SILVER_LION: UniformPart = {
   base: 'silver',
   facemask: 'silver',
   layers: [
-    {
-      id: 'lions-decal-keyline',
-      surface: 'helmet',
-      d: LIONS_DECAL_KEYLINE_PATH,
+    ...GENERATED_LIONS_DECAL_PATHS.map((layer, index) => ({
+      id: `lions-decal-${index}`,
+      surface: 'helmet' as const,
+      d: layer.d,
       clip: true,
-      kind: 'fill',
-      fill: 'white',
-    },
-    {
-      id: 'lions-decal-body',
-      surface: 'helmet',
-      d: LIONS_DECAL_BODY_PATH,
-      clip: true,
-      kind: 'fill',
-      fill: 'blue',
-    },
+      kind: 'fill' as const,
+      fill: layer.fill,
+    })),
   ],
 };
 

diff --git a/web/scripts/uniform-draw/lions_decal.py b/web/scripts/uniform-draw/lions_decal.py
@@ -1,0 +1,63 @@
+"""Bake the supplied Detroit Lions mark into helmet-space paths (DEP-475)."""
+from __future__ import annotations
+
+import hashlib
+import re
+import sys
+import xml.etree.ElementTree as ET
+from pathlib import Path
+
+SOURCE = Path(sys.argv[1]) if len(sys.argv) > 1 else Path('/Users/cwharris/Downloads/decal_svgs/lions_leaping_lion.svg')
+TARGET = Path(__file__).resolve().parents[2] / 'lib/uniforms/teams/lions-decal.ts'
+TOKEN = re.compile(r'[A-Za-z]|[-+]?(?:\d*\.\d+|\d+\.?)(?:[eE][-+]?\d+)?')
+
+# The supplied art's visible mark is x=252..1797/y=432..1611 in its 2048 viewBox.
+# Fit that measured envelope to the existing Lions helmet envelope x=189..578/y=122..419.
+SX, SY, SCALE = 252.0, 432.0, 389.0 / (1797.0 - 252.0)
+TX, TY = 189.0, 122.0
+
+def path(d: str, transform: str | None) -> str:
+    nums = [float(x) for x in re.findall(r'-?(?:\d+\.?\d*|\.\d+)', transform or '')]
+    ox, oy = (nums + [0, 0])[:2]
+    tokens = TOKEN.findall(d); i = 0; cmd = ''; x = y = 0.0; start = (0.0, 0.0); out = []
+    while i < len(tokens):
+        if tokens[i].isalpha():
+            cmd = tokens[i]; i += 1
+            if cmd in 'Zz': out.append('Z'); x, y = start; continue
+        rel = cmd.islower(); op = cmd.upper()
+        if op in ('M', 'L'):
+            x0, y0 = float(tokens[i]), float(tokens[i + 1]); i += 2
+            x, y = (x + x0, y + y0) if rel else (x0, y0)
+            if op == 'M': start = (x, y)
+            out.append(('M' if op == 'M' else 'L') + f'{TX + (x + ox - SX) * SCALE:.3f},{TY + (y + oy - SY) * SCALE:.3f}')
+            if op == 'M': cmd = 'l' if rel else 'L'
+        elif op == 'H':
+            v = float(tokens[i]); i += 1; x = x + v if rel else v
+            out.append(f'L{TX + (x + ox - SX) * SCALE:.3f},{TY + (y + oy - SY) * SCALE:.3f}')
+        elif op == 'V':
+            v = float(tokens[i]); i += 1; y = y + v if rel else v
+            out.append(f'L{TX + (x + ox - SX) * SCALE:.3f},{TY + (y + oy - SY) * SCALE:.3f}')
+        else: raise ValueError(f'unsupported SVG command {cmd}')
+    return ' '.join(out)
+
+source = SOURCE.read_bytes(); root = ET.fromstring(source)
+items = []
+for element in root:
+    if element.tag.rsplit('}', 1)[-1] != 'path':
+        continue
+    # These source paths draw the 2048px canvas and its right/bottom border artifacts.
+    if element.attrib.get('transform') in {'translate(0)', 'translate(2008)', 'translate(2047,1)'}:
+        continue
+    items.append((element.attrib['fill'], path(element.attrib['d'], element.attrib.get('transform'))))
+header = ("// Provenance: user-supplied lions_leaping_lion.svg (DEP-475), club trademark/non-free art.\n"
+          f"// Source SHA-256: {hashlib.sha256(source).hexdigest()}\n"
+          "// Direct source paths in original paint order; canvas and border paths are omitted.\n"
+          "// Placement reference: https://www.gridiron-uniforms.com/GUD/controller/controller.php?action=teams&team_id=DET\n"
+          "// Generated by scripts/uniform-draw/lions_decal.py; coordinates include placement.\n"
+          "export const LIONS_DECAL_PATHS = [\n")
+def token(fill: str) -> str:
+    if fill.upper() in {'#0276B6', '#0076B6'}: return 'blue'
+    if fill.upper().startswith('#F'): return 'white'
+    return 'silver'
+
+TARGET.write_text(header + ''.join(f"  {{ fill: '{token(fill)}', d: '{d}' }},\n" for fill, d in items) + "] as const;\n")
